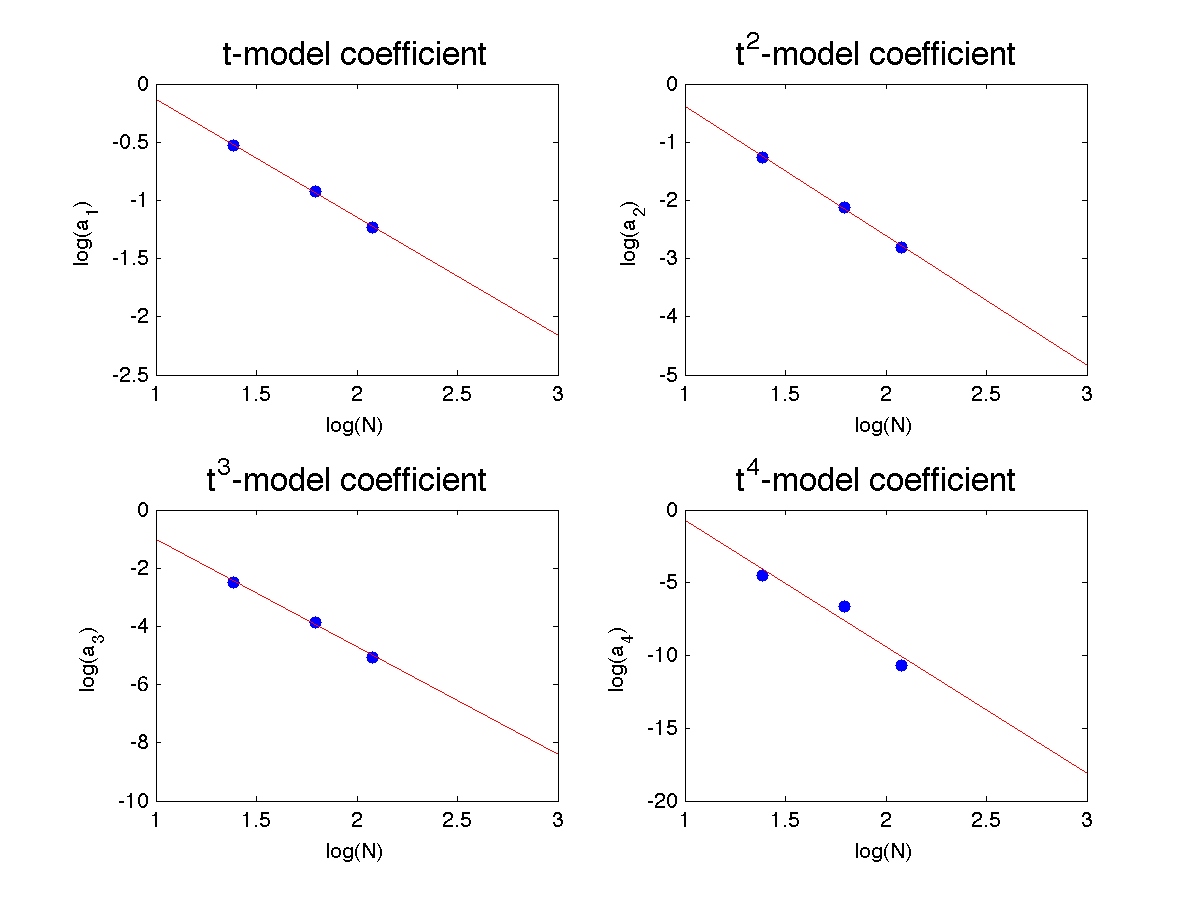
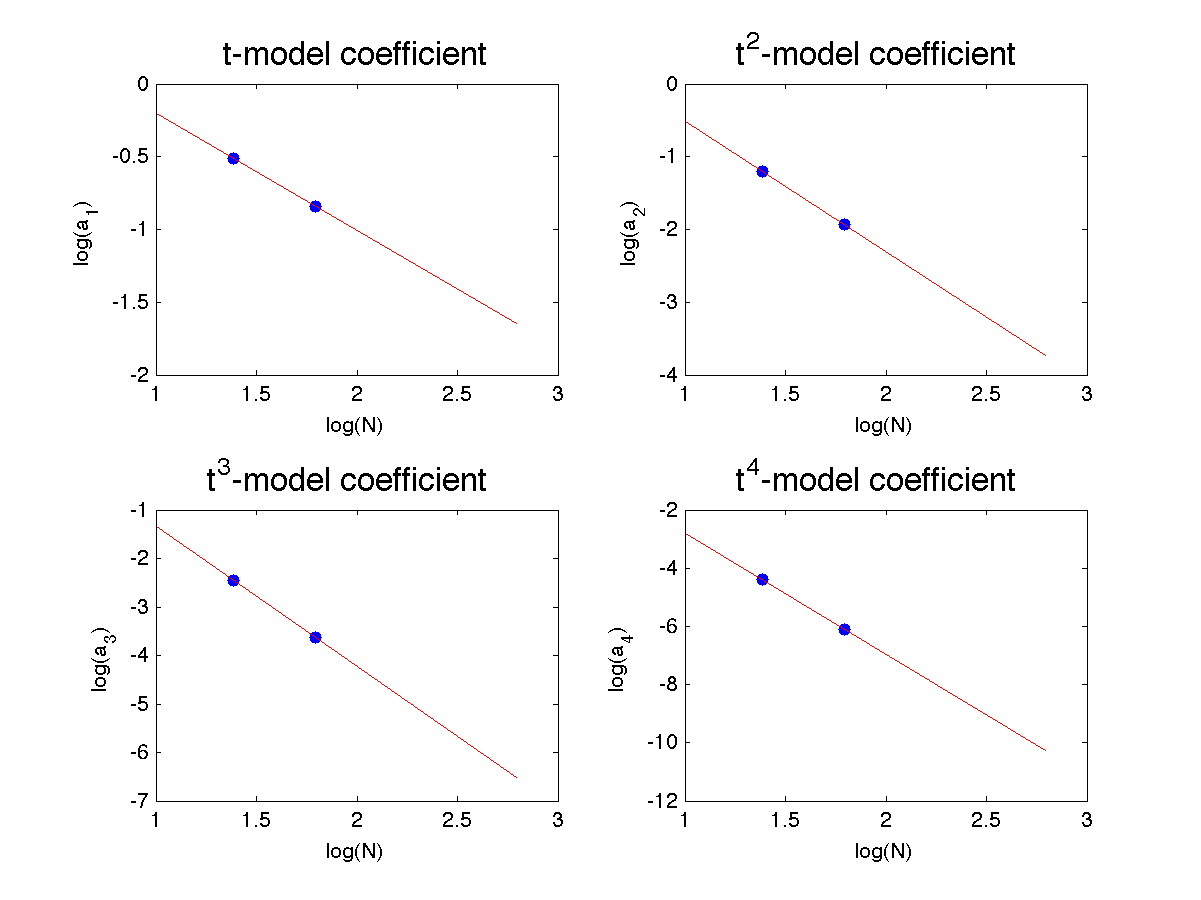
updated renormalization script

diff --git a/Euler/simulations/testing_renormalization_Mar_1/analyze_data.m b/Euler/simulations/testing_renormalization_Mar_1/analyze_data.m
@@ -57,4 +57,4 @@ s = size(u);
 N_list = 4:2:s(1)/2;
 
 % compute the renormalization coefficients
-[coeff_array,scaling_laws] = renormalize(u_array,N_list,t_array,time,print,degree);
+[coeff_array,scaling_laws] = renormalize(u,N_list,t_list,time,print);
